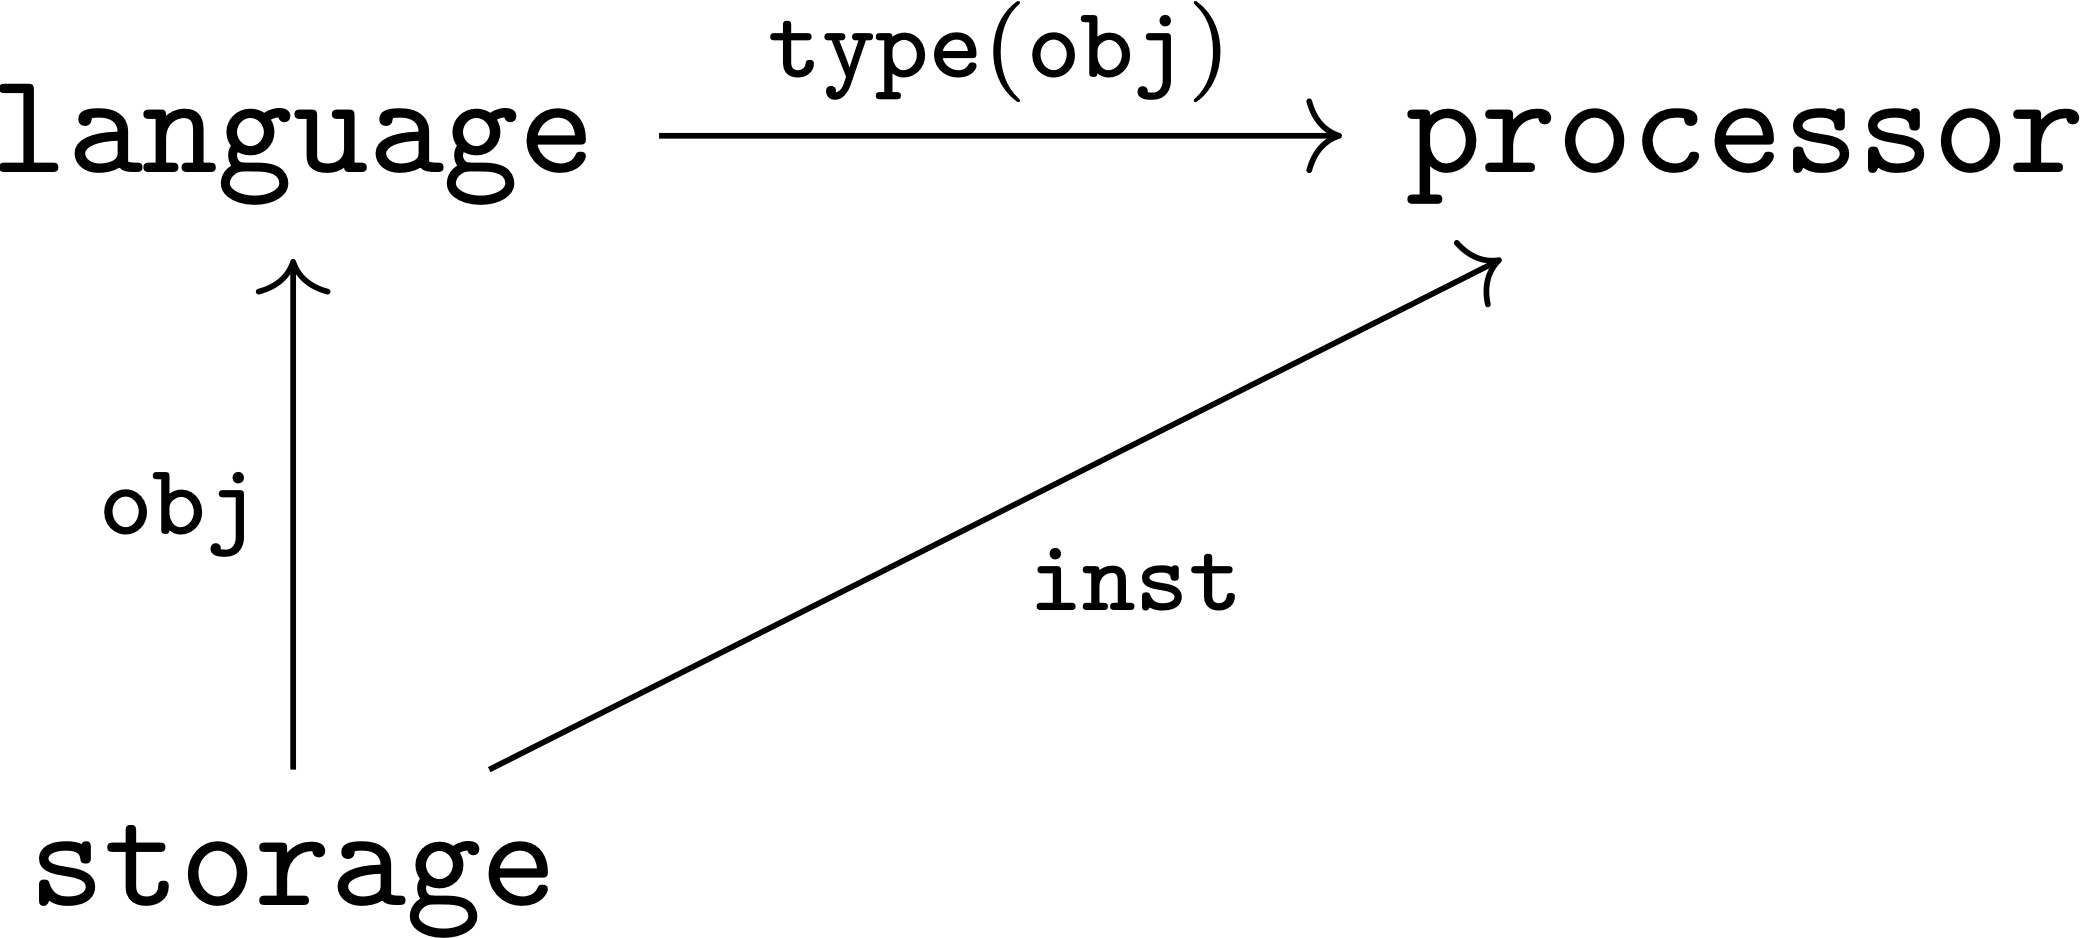
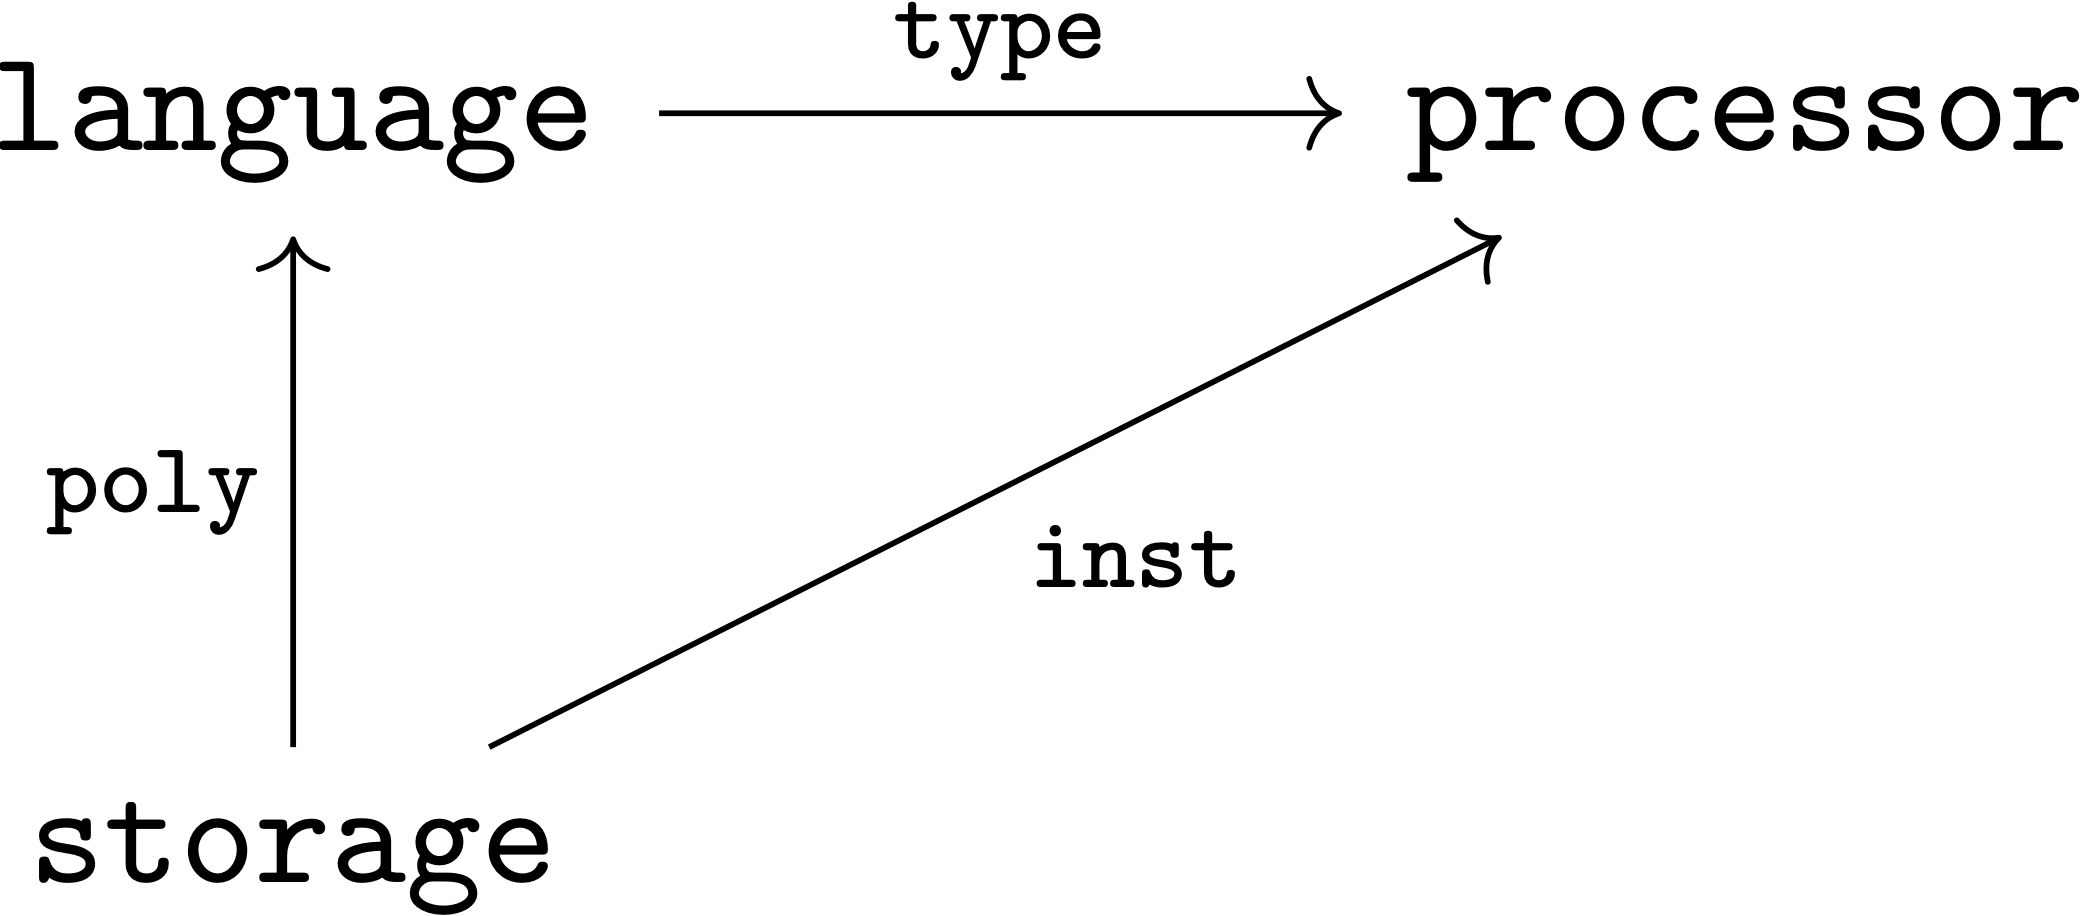
updated site

diff --git a/language.html b/language.html
@@ -1680,7 +1680,15 @@ mmlang&gt; 5[split,int[is&gt;0],int[is&lt;0],int][merge]
 </tbody>
 </table>
 <div class="paragraph">
-<p>The mm-ADT <code>poly</code> (<a href="https://en.wikipedia.org/wiki/Polynomial">polynomial</a>) is both a <em>ctype</em> and an element of either a <em>serial</em> (<code>;</code>), <em>parallel</em> (<code>,</code>), or <em>choice</em> (<code>|</code>) <a href="https://en.wikipedia.org/wiki/Free_object">free</a> <a href="https://en.wikipedia.org/wiki/Trace_monoid">trace monoid</a> that is <a href="https://en.wikipedia.org/wiki/Adjoint_functors">left-adjoint</a> to one of the mm-ADT VM operational monoids&#8201;&#8212;&#8201;\$langle \tt{obj},\ast \rangle\$, \$langle \tt{obj},+ \rangle\$, or \$langle \tt{obj},\o+ \rangle\$, respectively. Each <em>nabla morphism</em> (\$\nabla\$) is an <a href="https://en.wikipedia.org/wiki/Epimorphism">epi</a> - <a href="https://en.wikipedia.org/wiki/Catamorphism">catamorphic</a> fold over the free <code>poly</code> structure down to an <code>obj</code> by way of a reductive, "left-to-right" application of the \$\langle \tt{obj},-\rangle\$ monoid&#8217;s operator. Both the <code>-poly</code> and \$\langle \tt{obj},- \rangle\$ monoids are derived from the set of mm-ADT <code>objs</code>, where the <em>delta morphisms</em>, \$\Delta:\tt{obj}^n \rightarrow \tt{poly}\$,  <strong>construct</strong> <code>polys</code> and the compositional <code>inst</code> instructions (<code>[map]</code>, <code>[branch]</code>, and <code>[choose]</code>) <strong>compute</strong> <code>objs</code>. The commuting diagrams below expose the <a href="https://en.wikipedia.org/wiki/Universal_property">universal property</a> of monoid mappings across the mm-ADT monoids.</p>
+<p>An mm-ADT <code>poly</code> (<a href="https://en.wikipedia.org/wiki/Polynomial">polynomial</a>) is an element of either a <em>serial</em> (<code>;</code>), <em>parallel</em> (<code>,</code>), or <em>choice</em> (<code>|</code>) <a href="https://en.wikipedia.org/wiki/Free_object">free</a> <a href="https://en.wikipedia.org/wiki/Trace_monoid">trace monoid</a> that is <a href="https://en.wikipedia.org/wiki/Adjoint_functors">left-adjoint</a> to the respective \$langle \tt{obj},\ast \rangle\$, \$langle \tt{obj},+ \rangle\$, or \$langle \tt{obj},\o+ \rangle\$ monoid. The <em>nabla functions</em>, \$\nabla^{-}: \tt{poly} \rightarrow \tt{obj} \$, fold a free <code>poly</code> structure down to an <code>obj</code> via the "left-to-right" application of the associated \$\langle \tt{obj},-\rangle\$ monoid&#8217;s operator.
+\[
+\nabla^-(\texttt{poly}) = \prod_{i} \texttt{poly}_i.
+\]
+Both the <code>-poly</code> and \$\langle \tt{obj},- \rangle\$ monoids derive their carrier sets from the <a href="https://en.wikipedia.org/wiki/Initial_and_terminal_objects">initial</a> set of mm-ADT <code>objs</code>. The injective <em>delta functions</em>, \$\Delta:\tt{obj} \rightarrow \tt{poly}\$, yield the generators of the <code>-poly</code> monoid&#8217;s, where
+\[
+\Delta^{-}(\tt{obj}) = [\tt{obj}].
+\]
+Likewise, <code>[map]</code>, <code>[branch]</code>, and <code>[choose]</code> are the instruction representations of the composition of <code>objs</code>. The commuting diagrams below expose the <a href="https://en.wikipedia.org/wiki/Universal_property">universal property</a> of monoid mappings across these mm-ADT monoids.</p>
 </div>
 <div class="imageblock text-center">
 <div class="content">
@@ -1688,15 +1696,11 @@ mmlang&gt; 5[split,int[is&gt;0],int[is&lt;0],int][merge]
 </div>
 </div>
 <div class="paragraph">
-<p>Finally, the three monoids within each monoidal category compose into the universal <a href="https://zenodo.org/record/2565243">stream ring</a>. The <code>poly</code> monoidal construction realizes a <a href="https://en.wikipedia.org/wiki/Polynomial_ring">polynomial ring</a> and thus, a syntactic <a href="https://en.wikipedia.org/wiki/Free_algebra">free algebra</a> enabling mm-ADT <a href="https://en.wikipedia.org/wiki/Metaprogramming">metaprogramming</a> via a <a href="https://en.wikipedia.org/wiki/Ring_homomorphism">ring homomorphism</a> from the <strong>structural</strong> <code>;,-poly</code> ring to the <strong>procedural</strong> \$\langle \tt{obj},\ast,+\rangle\$ ring.</p>
-</div>
-<div class="paragraph">
-<p>\[
-;,-\texttt{poly}  \xrightarrow{\;\;\;\nabla^{;,}\;\;\;} \langle \texttt{obj},\ast,+ \rangle
-\]</p>
-</div>
-<div class="paragraph">
-<p>In terms of the mm-ADT VMs component architecture, the ring homomorphism above is a mapping from a <strong>language</strong> to a <strong>processor</strong> communicated through <code>objs</code> provided by <strong>storage</strong>. All mm-ADT compliant components are faithful to <code>obj</code> and the stream ring axioms that bind them. In this way, the mm-ADT VM remains forever agnostic to the specifics of the component implementations. Hence the notion that mm-ADT generates <em>synthetic data system</em> via algebraic composition.</p>
+<p>Finally, the corresponding monoids across the three diagrams are the monoids of a particular encoding of the universal <a href="https://zenodo.org/record/2565243">stream ring</a> algebra. The <code>poly</code> monoids form a <a href="https://en.wikipedia.org/wiki/Polynomial_ring">polynomial ring</a> and thus, a syntactic <a href="https://en.wikipedia.org/wiki/Free_algebra">free algebra</a> that enables mm-ADT <a href="https://en.wikipedia.org/wiki/Metaprogramming">metaprogramming</a> by way of a <a href="https://en.wikipedia.org/wiki/Ring_homomorphism">ring homomorphism</a> from the <strong>structural</strong> <code>;,-poly</code> ring to the <strong>procedural</strong> \$\langle \tt{obj},\ast,\rangle\$ ring.
+\[
+;,-\texttt{poly}  \xrightarrow{\;\;\;\nabla^{;,}\;\;\;} \langle \texttt{obj},\ast, \rangle
+\]
+In terms of the mm-ADT VMs component architecture, this ring homomorphism maps a <strong>language</strong> to a <strong>processor</strong> through the common communication medium of <code>objs</code> provided by <strong>storage</strong>. All mm-ADT compliant components are faithful to <code>obj</code> and the stream ring axioms that bind them regardless of their particular ring encoding. In this way, the mm-ADT VM remains agnostic to the specifics of the component implementations and thus, mm-ADT supports the creation of <em>synthetic data systems</em>.</p>
 </div>
 <div class="imageblock text-center">
 <div class="content">
@@ -2085,7 +2089,7 @@ mmlang&gt; 1&lt;[plus,1];[mult,2]&gt;
 </div>
 <div id="footer">
 <div id="footer-text">
-Last updated 2020-05-21 05:23:56 -0600
+Last updated 2020-05-21 16:32:43 -0600
 </div>
 </div>
 </body>

diff --git a/index.html b/index.html
@@ -1961,7 +1961,15 @@ mmlang&gt; <span style="color:#00D">5</span>[split,<span style="color:#369;font-
 </tbody>
 </table>
 <div class="paragraph">
-<p>The mm-ADT <code>poly</code> (<a href="https://en.wikipedia.org/wiki/Polynomial">polynomial</a>) is both a <em>ctype</em> and an element of either a <em>serial</em> (<code>;</code>), <em>parallel</em> (<code>,</code>), or <em>choice</em> (<code>|</code>) <a href="https://en.wikipedia.org/wiki/Free_object">free</a> <a href="https://en.wikipedia.org/wiki/Trace_monoid">trace monoid</a> that is <a href="https://en.wikipedia.org/wiki/Adjoint_functors">left-adjoint</a> to one of the mm-ADT VM operational monoids&#8201;&#8212;&#8201;\$langle \tt{obj},\ast \rangle\$, \$langle \tt{obj},+ \rangle\$, or \$langle \tt{obj},\o+ \rangle\$, respectively. Each <em>nabla morphism</em> (\$\nabla\$) is an <a href="https://en.wikipedia.org/wiki/Epimorphism">epi</a> - <a href="https://en.wikipedia.org/wiki/Catamorphism">catamorphic</a> fold over the free <code>poly</code> structure down to an <code>obj</code> by way of a reductive, "left-to-right" application of the \$\langle \tt{obj},-\rangle\$ monoid&#8217;s operator. Both the <code>-poly</code> and \$\langle \tt{obj},- \rangle\$ monoids are derived from the set of mm-ADT <code>objs</code>, where the <em>delta morphisms</em>, \$\Delta:\tt{obj}^n \rightarrow \tt{poly}\$,  <strong>construct</strong> <code>polys</code> and the compositional <code>inst</code> instructions (<code>[map]</code>, <code>[branch]</code>, and <code>[choose]</code>) <strong>compute</strong> <code>objs</code>. The commuting diagrams below expose the <a href="https://en.wikipedia.org/wiki/Universal_property">universal property</a> of monoid mappings across the mm-ADT monoids.</p>
+<p>An mm-ADT <code>poly</code> (<a href="https://en.wikipedia.org/wiki/Polynomial">polynomial</a>) is an element of either a <em>serial</em> (<code>;</code>), <em>parallel</em> (<code>,</code>), or <em>choice</em> (<code>|</code>) <a href="https://en.wikipedia.org/wiki/Free_object">free</a> <a href="https://en.wikipedia.org/wiki/Trace_monoid">trace monoid</a> that is <a href="https://en.wikipedia.org/wiki/Adjoint_functors">left-adjoint</a> to the respective \$langle \tt{obj},\ast \rangle\$, \$langle \tt{obj},+ \rangle\$, or \$langle \tt{obj},\o+ \rangle\$ monoid. The <em>nabla functions</em>, \$\nabla^{-}: \tt{poly} \rightarrow \tt{obj} \$, fold a free <code>poly</code> structure down to an <code>obj</code> via the "left-to-right" application of the associated \$\langle \tt{obj},-\rangle\$ monoid&#8217;s operator.
+\[
+\nabla^-(\texttt{poly}) = \prod_{i} \texttt{poly}_i.
+\]
+Both the <code>-poly</code> and \$\langle \tt{obj},- \rangle\$ monoids derive their carrier sets from the <a href="https://en.wikipedia.org/wiki/Initial_and_terminal_objects">initial</a> set of mm-ADT <code>objs</code>. The injective <em>delta functions</em>, \$\Delta:\tt{obj} \rightarrow \tt{poly}\$, yield the generators of the <code>-poly</code> monoid&#8217;s, where
+\[
+\Delta^{-}(\tt{obj}) = [\tt{obj}].
+\]
+Likewise, <code>[map]</code>, <code>[branch]</code>, and <code>[choose]</code> are the instruction representations of the composition of <code>objs</code>. The commuting diagrams below expose the <a href="https://en.wikipedia.org/wiki/Universal_property">universal property</a> of monoid mappings across these mm-ADT monoids.</p>
 </div>
 <div class="imageblock text-center">
 <div class="content">
@@ -1969,15 +1977,11 @@ mmlang&gt; <span style="color:#00D">5</span>[split,<span style="color:#369;font-
 </div>
 </div>
 <div class="paragraph">
-<p>Finally, the three monoids within each monoidal category compose into the universal <a href="https://zenodo.org/record/2565243">stream ring</a>. The <code>poly</code> monoidal construction realizes a <a href="https://en.wikipedia.org/wiki/Polynomial_ring">polynomial ring</a> and thus, a syntactic <a href="https://en.wikipedia.org/wiki/Free_algebra">free algebra</a> enabling mm-ADT <a href="https://en.wikipedia.org/wiki/Metaprogramming">metaprogramming</a> via a <a href="https://en.wikipedia.org/wiki/Ring_homomorphism">ring homomorphism</a> from the <strong>structural</strong> <code>;,-poly</code> ring to the <strong>procedural</strong> \$\langle \tt{obj},\ast,+\rangle\$ ring.</p>
-</div>
-<div class="paragraph">
-<p>\[
-;,-\texttt{poly}  \xrightarrow{\;\;\;\nabla^{;,}\;\;\;} \langle \texttt{obj},\ast,+ \rangle
-\]</p>
-</div>
-<div class="paragraph">
-<p>In terms of the mm-ADT VMs component architecture, the ring homomorphism above is a mapping from a <strong>language</strong> to a <strong>processor</strong> communicated through <code>objs</code> provided by <strong>storage</strong>. All mm-ADT compliant components are faithful to <code>obj</code> and the stream ring axioms that bind them. In this way, the mm-ADT VM remains forever agnostic to the specifics of the component implementations. Hence the notion that mm-ADT generates <em>synthetic data system</em> via algebraic composition.</p>
+<p>Finally, the corresponding monoids across the three diagrams are the monoids of a particular encoding of the universal <a href="https://zenodo.org/record/2565243">stream ring</a> algebra. The <code>poly</code> monoids form a <a href="https://en.wikipedia.org/wiki/Polynomial_ring">polynomial ring</a> and thus, a syntactic <a href="https://en.wikipedia.org/wiki/Free_algebra">free algebra</a> that enables mm-ADT <a href="https://en.wikipedia.org/wiki/Metaprogramming">metaprogramming</a> by way of a <a href="https://en.wikipedia.org/wiki/Ring_homomorphism">ring homomorphism</a> from the <strong>structural</strong> <code>;,-poly</code> ring to the <strong>procedural</strong> \$\langle \tt{obj},\ast,\rangle\$ ring.
+\[
+;,-\texttt{poly}  \xrightarrow{\;\;\;\nabla^{;,}\;\;\;} \langle \texttt{obj},\ast, \rangle
+\]
+In terms of the mm-ADT VMs component architecture, this ring homomorphism maps a <strong>language</strong> to a <strong>processor</strong> through the common communication medium of <code>objs</code> provided by <strong>storage</strong>. All mm-ADT compliant components are faithful to <code>obj</code> and the stream ring axioms that bind them regardless of their particular ring encoding. In this way, the mm-ADT VM remains agnostic to the specifics of the component implementations and thus, mm-ADT supports the creation of <em>synthetic data systems</em>.</p>
 </div>
 <div class="imageblock text-center">
 <div class="content">
